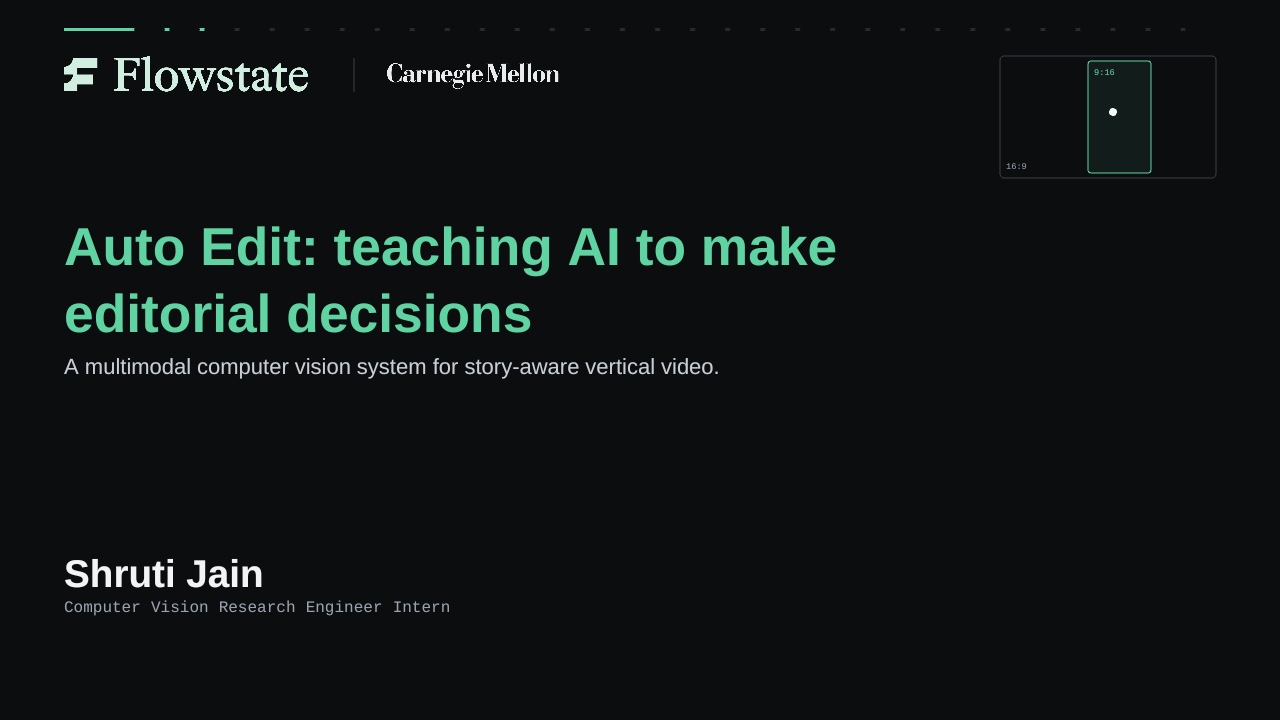
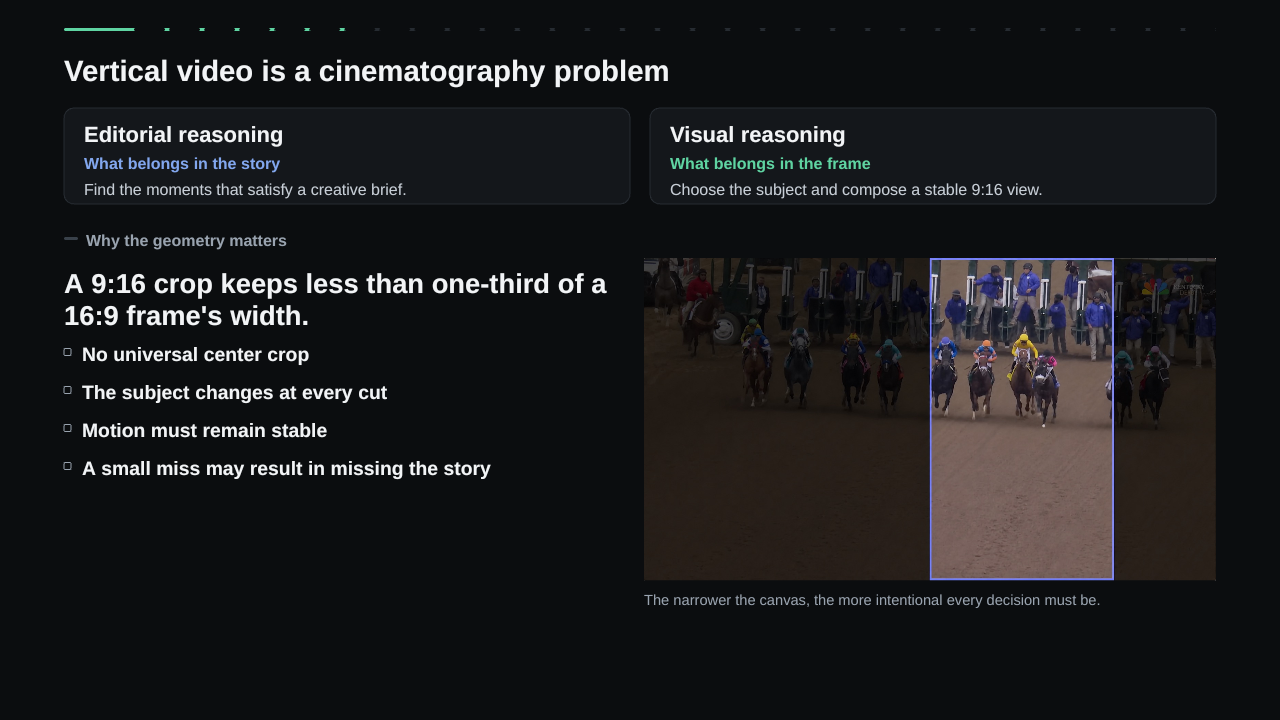
Refine Auto Edit project card

diff --git a/_projects/0_auto_edit.md b/_projects/0_auto_edit.md
@@ -9,8 +9,6 @@ category: Projects
 
 **Role:** Computer Vision Research Engineer Intern — Flowstate AI
 
-<a href="{{ '/assets/presentations/auto-edit/' | relative_url }}" class="btn btn-primary" aria-label="Open the Auto Edit interactive presentation">View Interactive Presentation</a>
-
 ---
 
 {% include figure.html path="assets/img/projects/auto_edit.png" title="Auto Edit — Story-Aware Vertical Video" class="img-fluid rounded z-depth-1" %}
